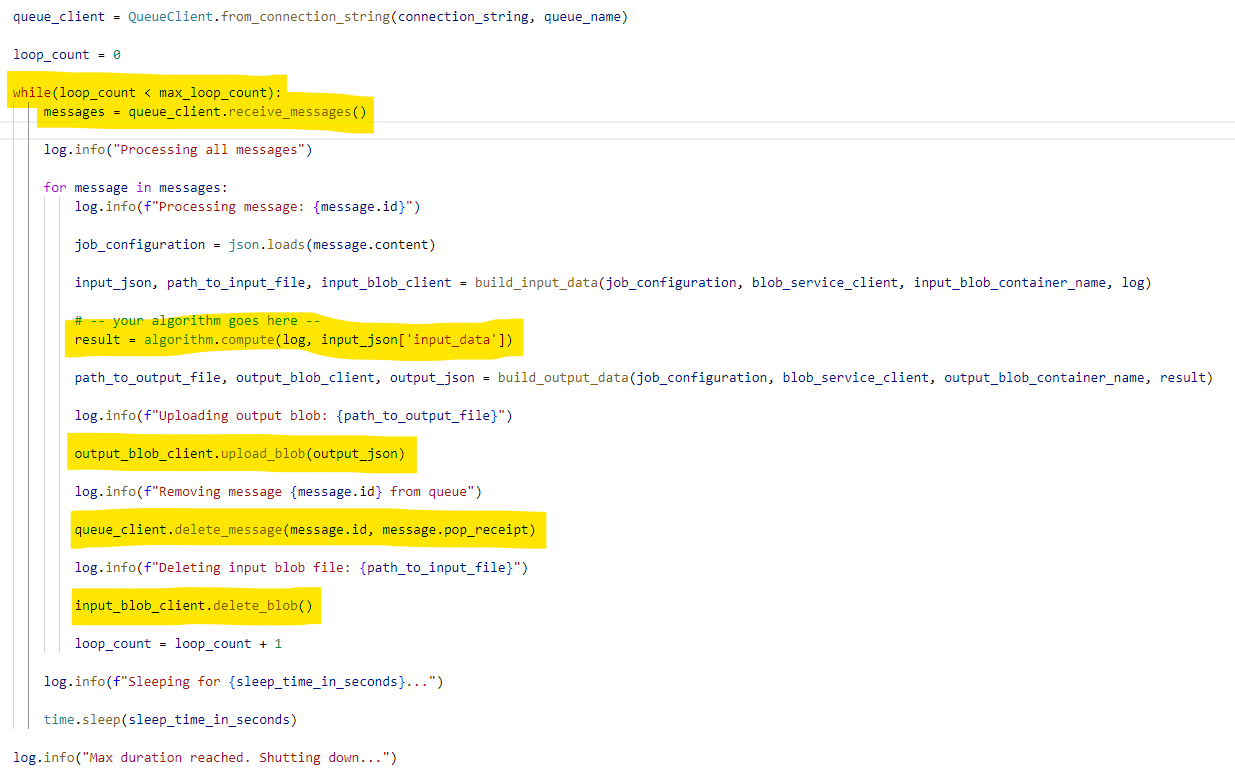
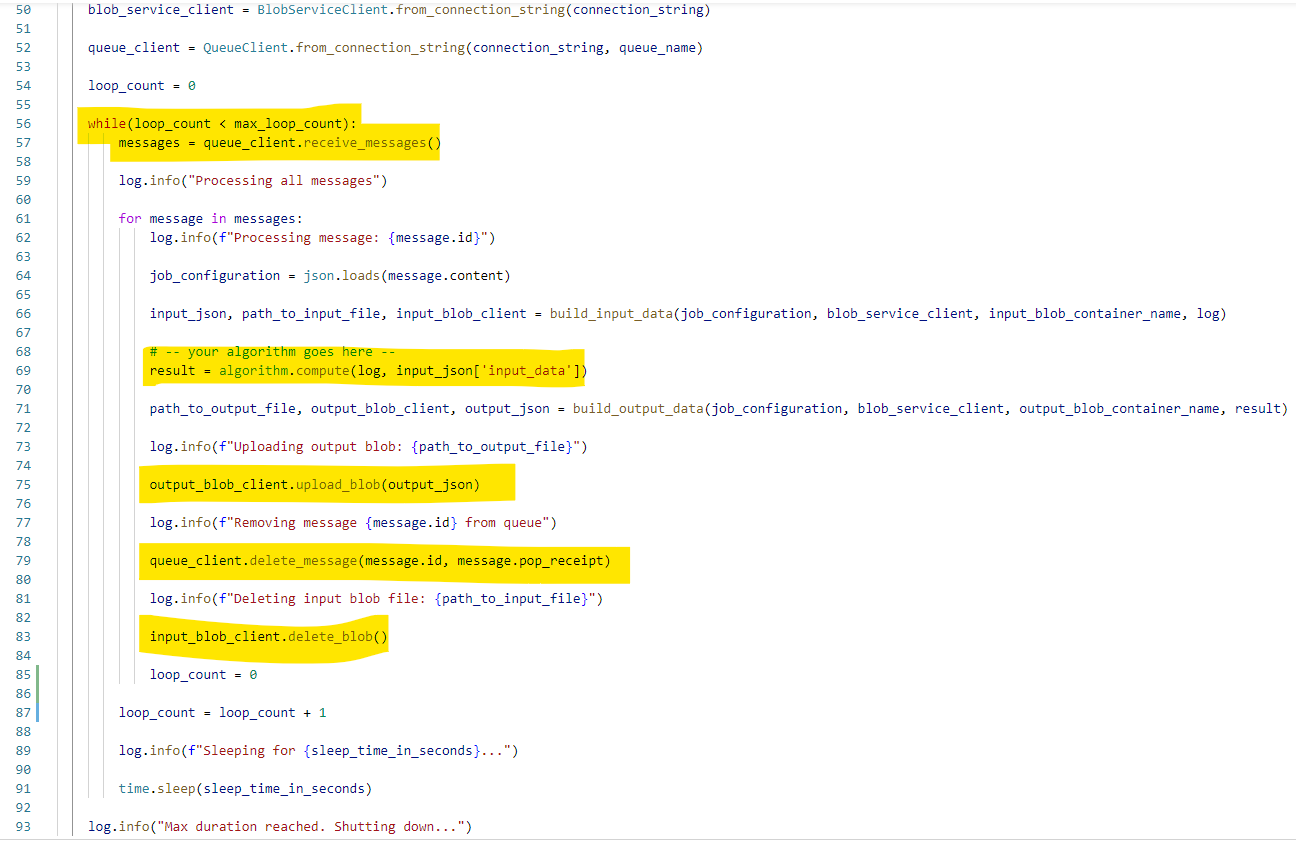
readme

Changed region(s): [[0.0, 0.0, 1.0, 1.0]]

diff --git a/src/compute/main.py b/src/compute/main.py
@@ -42,10 +42,10 @@ def main():
     queue_name = os.getenv("AZURE_STORAGE_QUEUE_NAME")
     input_blob_container_name = os.getenv("AZURE_STORAGE_INPUT_BLOB_CONTAINER_NAME")
     output_blob_container_name = os.getenv("AZURE_STORAGE_OUTPUT_BLOB_CONTAINER_NAME")
-    max_duration = os.getenv("MAX_DURATION_IN_MINUTES")
+    max_idle_time_in_minutes = os.getenv("MAX_IDLE_TIME_IN_MINUTES")
 
     sleep_time_in_seconds = 5
-    max_loop_count = int(max_duration) / 60 / sleep_time_in_seconds
+    max_loop_count = int(max_idle_time_in_minutes) * 60 / sleep_time_in_seconds
 
     blob_service_client = BlobServiceClient.from_connection_string(connection_string)
 
@@ -82,7 +82,9 @@ def main():
 
             input_blob_client.delete_blob()
 
-            loop_count = loop_count + 1
+            loop_count = 0
+
+        loop_count = loop_count + 1
 
         log.info(f"Sleeping for {sleep_time_in_seconds}...")
 

diff --git a/README.md b/README.md
@@ -17,7 +17,7 @@ Install the following prerequisites.
 
 ## Deployment
 
-0.  Create a new resource group in your Azure subscription
+1.  Create a new resource group in your Azure subscription
 
 1.  Navigate to `infra/init` directory
 
@@ -45,7 +45,7 @@ Install the following prerequisites.
 
 1.  Navigate to the `infra/container` directory
 
-1.  Deploy the container infrastructure to Azure (you will have to substitute some of these values for the Azure resource names that were created in the earlier step)
+1.  Deploy the container infrastructure to Azure (you will have to substitute some of these values for the Azure resource names that were created in the earlier step, all of these values can be found in the output of the previous Azure infrastructure deployment)
 
     ```shell
     az deployment group create --resource-group rg-durableFuncAci-ussc-demo --template-file ./main.bicep --parameters ./demo.parameters.json --parameters storageAccountName=sadurablefuncaciusscdemo --parameters containerRegistryName=acrdurableFuncAciusscdemo --parameters inputQueueName=input --parameters imageName=compute --parameters imageVersion=latest --parameters inputStorageContainerName=input --parameters outputStorageContainerName=output --parameters numberOfContainersToCreate=1 --parameters logAnalyticsWorkspaceName=la-durableFuncAci-ussc-demo --parameters newBlobCreatedEventGridTopicName=egt-NewInputBlobCreated-durableFuncAci-ussc-demo --parameters storageAccountInputContainerName=input --parameters aciConnectionName=aci --parameters eventGridConnectionName=azureeventgrid --parameters orchtestrationFunctionAppName=func-durableFuncAci-ussc-demo --parameters storageAccountOutputContainerName=output
@@ -133,9 +133,9 @@ Here is the overall flow:
 
 ## Container compute
 
-Each container is self contained and does not communicate with the other containers. It only reads the next message from the Azure Storage Queue and processes it. The Azure Storage Queue ensures a message is only processed by 1 container. If that container fails to complete the processing of the message, it will be put back on the queue and processed by another container. Once the container has received a message, it downloads the message from the Azure Blob Storage. It then computes the result and writes the result to a different Azure Blob Storage container. It then reports success to the Storage Queue and deletes the original input data. Once the container runs out of messages to process, it will shut-down after the `max_duration` is reached.
+Each container is self contained and does not communicate with the other containers. It only reads the next message from the Azure Storage Queue and processes it. The Azure Storage Queue ensures a message is only processed by 1 container. If that container fails to complete the processing of the message, it will be put back on the queue and processed by another container. Once the container has received a message, it downloads the message from the Azure Blob Storage. It then computes the result and writes the result to a different Azure Blob Storage container. It then reports success to the Storage Queue and deletes the original input data. Once the container runs out of messages to process, it will shut-down after the `max_idle_time_in_minutes` is reached.
 
-![containerCompute](.img/containerCompute.png)
+![containerCompute](.img/computeContainer.png)
 
 Here is an example of the container log while processing.
 
